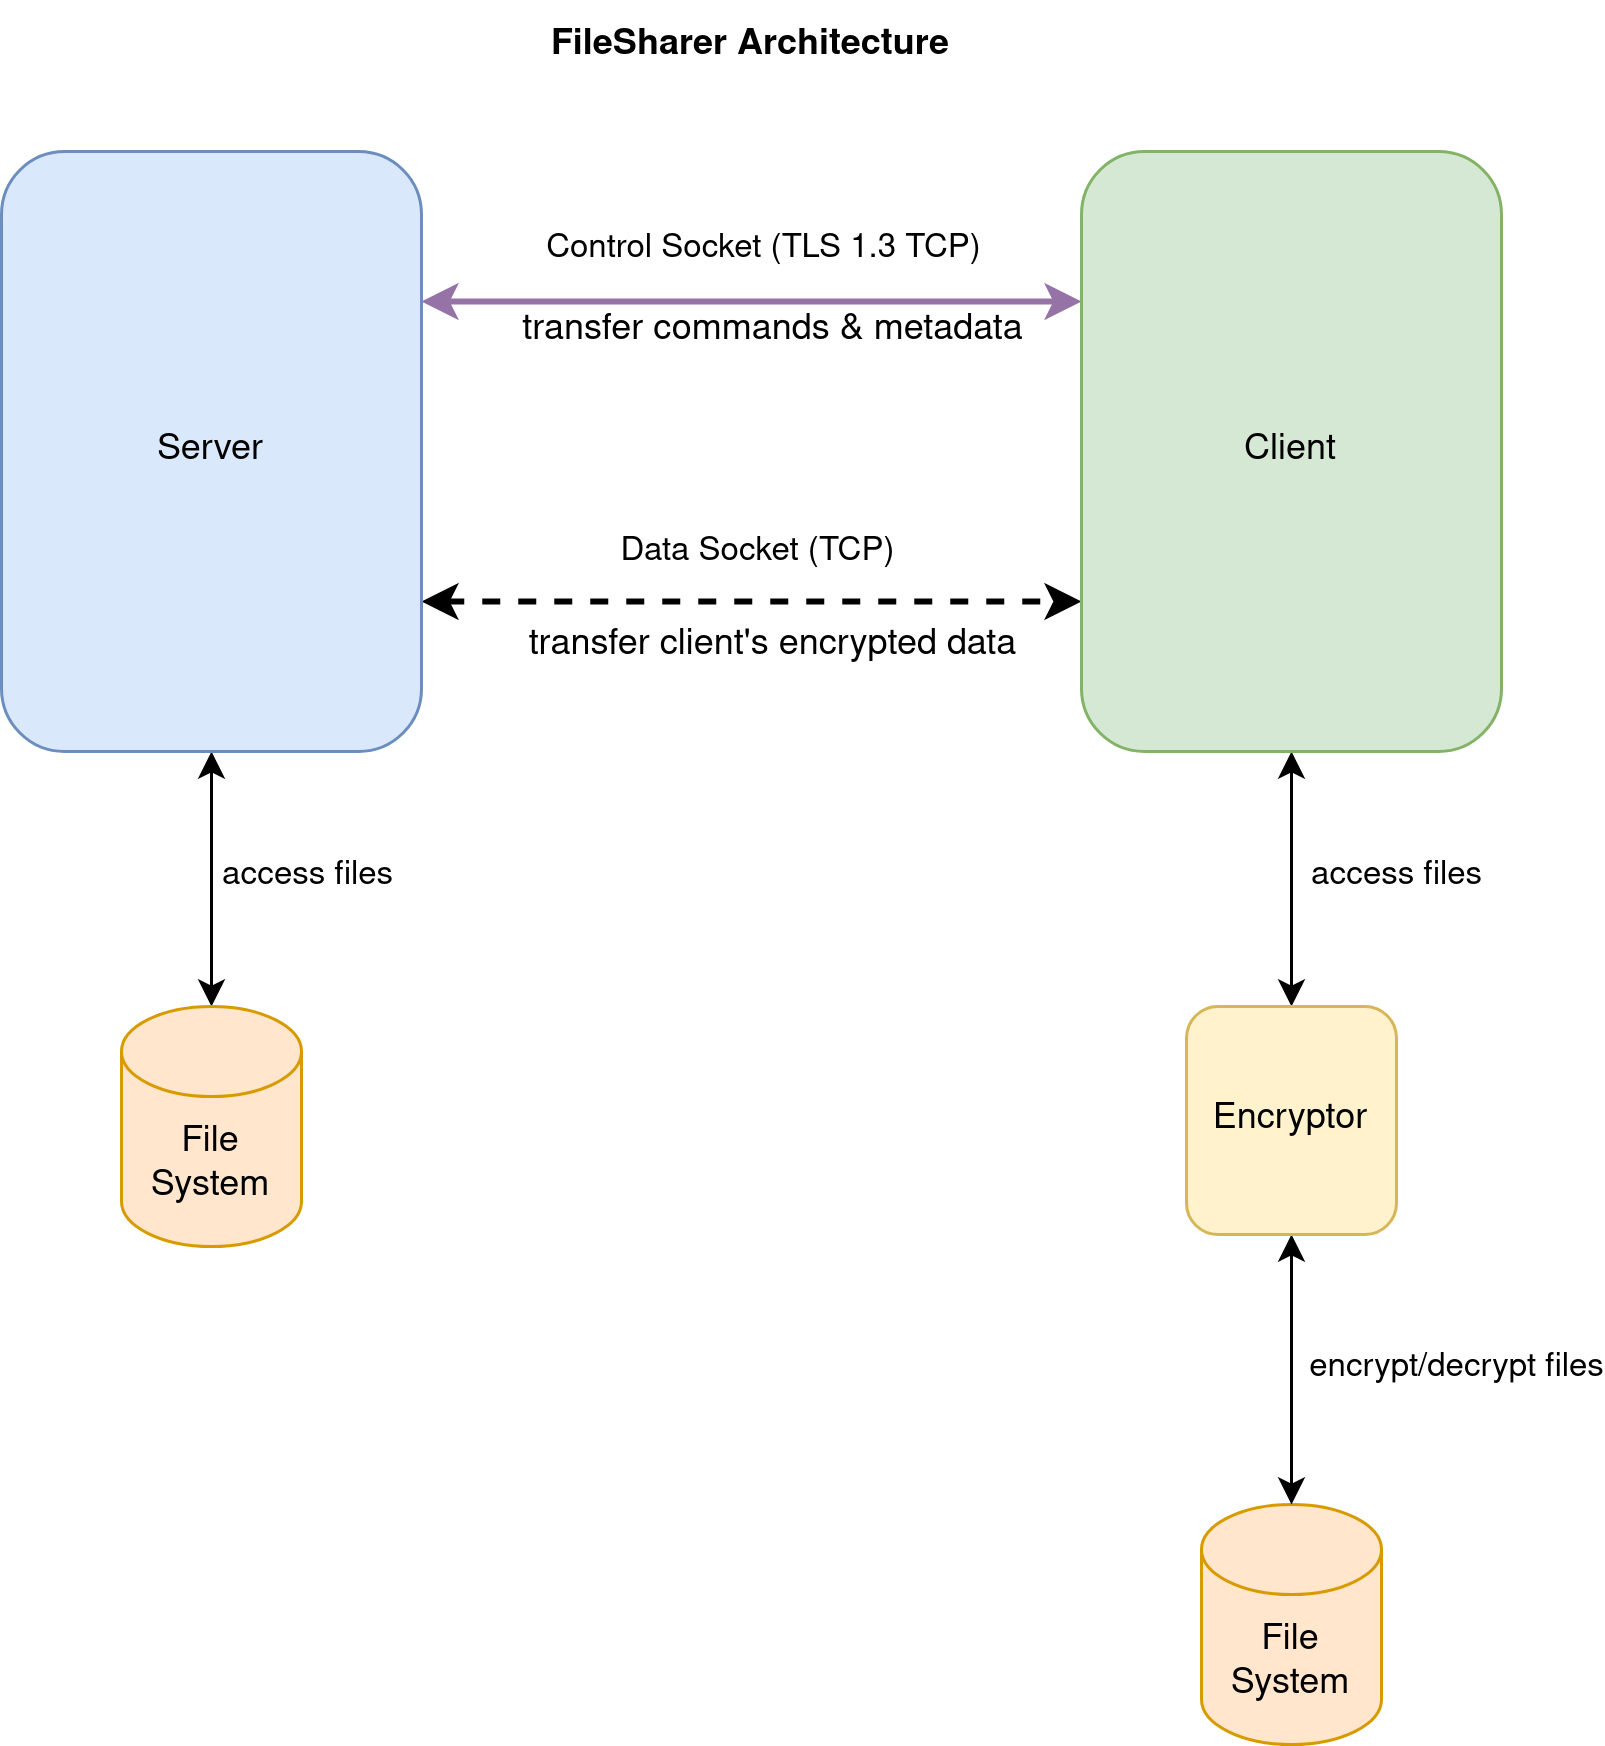
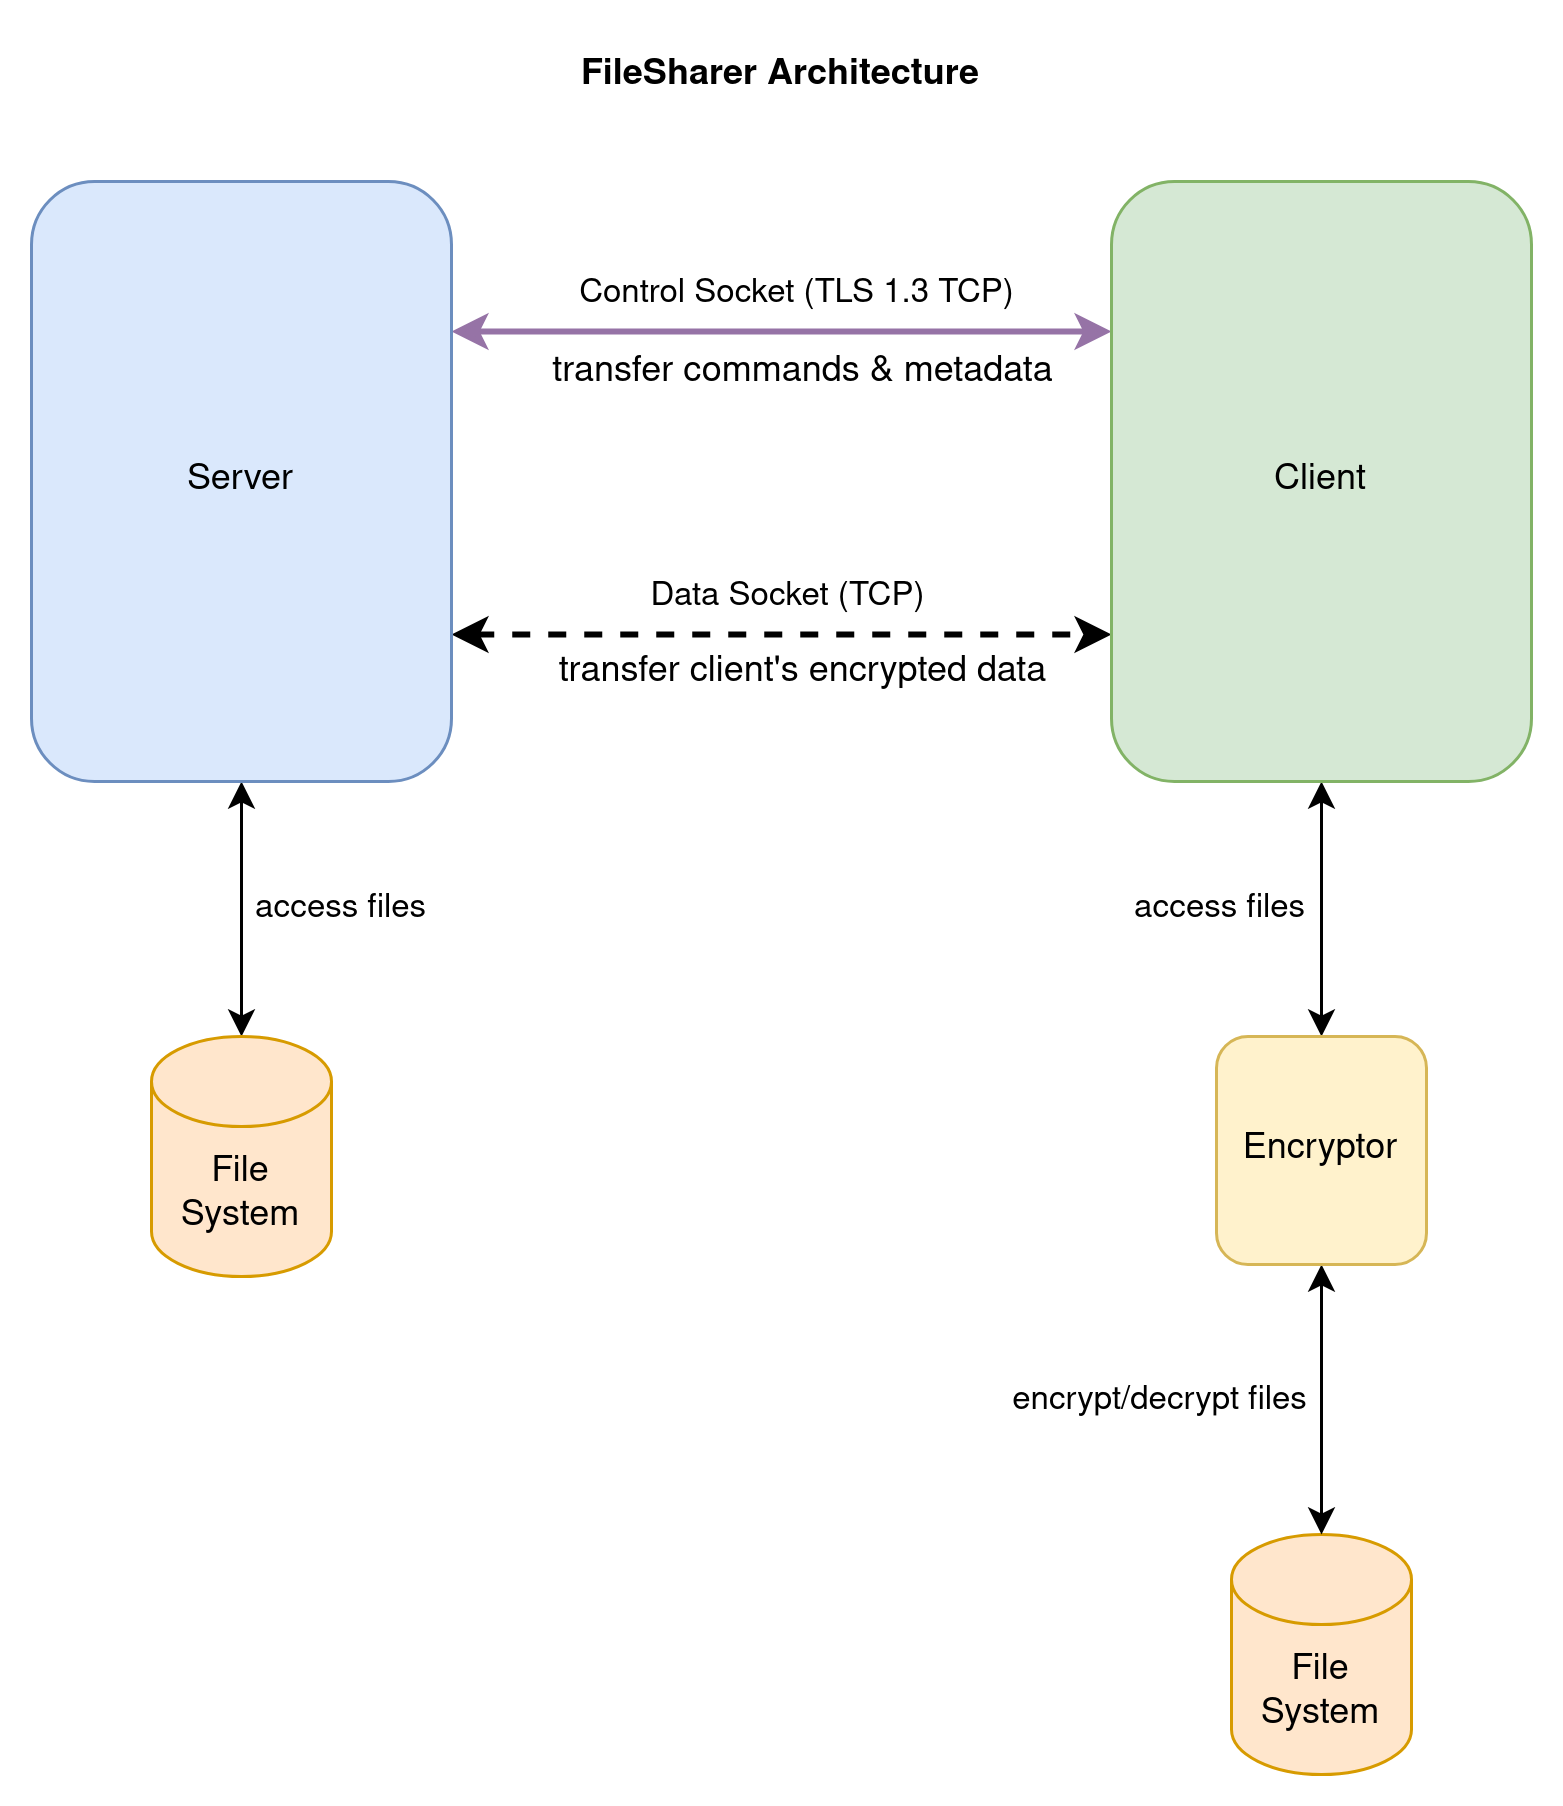
update diagram wording and arrangement

diff --git a/README.md b/README.md
@@ -6,7 +6,7 @@ An application with a command line interface that enables clients to locally enc
 
 # Command Line Instructions
 
-A `.jar` is included in this repository, so all that is needed to use the app is `scala`, although `sbt` can be used to build it if desired. 
+A `.jar` is included in this repository, so all that is needed to use the app is `scala`, although `sbt` can be used to build it if desired.
 
 Assumptions: you have cloned the repository and you are in the top-level `filesharer` directory.
 
@@ -27,9 +27,9 @@ This should produce an output similar to:
 
     Server running with control port 9999, data port 9998
     Server storing files at server/storage, and keystore at server/config/keystore
-    
+
 Enter `CTRL+C` to stop the server.
-    
+
 ### Using the client
 
 The client accepts four commands: `send`, `list`, `request`, and `delete`. They all require the server to be running and are described below:
@@ -39,9 +39,9 @@ The client accepts four commands: `send`, `list`, `request`, and `delete`. They 
 The syntax for sending files is: `scala filesharer.jar client send <file name>*`. For example:
 
     scala filesharer.jar client send client/storage/original/test.txt client/storage/original/test.png
-    
+
 With the the configuration in [working-directory/server/config/config](working-directory/server/config/config), the encrypted version of these files will end up in [working-directory/server/storage](working-directory/server/storage).
-    
+
 #### list
 
 To list files stored on the server:
@@ -55,7 +55,7 @@ Assuming the previous command sent test.txt and test.png, the output should be:
 
     Client requesting list of saved files.
 
-    File Name | Size (bytes)       
+    File Name | Size (bytes)
     -------------------------------
     test.png  | 277792
     test.txt  | 48
@@ -78,16 +78,16 @@ The syntax for deleting files on the server side is: `scala filesharer.jar clien
 
 ## Generating a new key for the client (optional)
 
-The working-directory already contains an AES-128 key at [working-directory/client/config/key](working-directory/client/config/key). However, if desired, a new one may be created. 
+The working-directory already contains an AES-128 key at [working-directory/client/config/key](working-directory/client/config/key). However, if desired, a new one may be created.
 
-First, delete or rename the old key: 
+First, delete or rename the old key:
 
     mv client/config/key client/config/oldkey
 
 Then create a new one with:
 
     scala filesharer.jar keygenerator
-    
+
 # Additional Details
 
 The application was developed and tested on Ubuntu 20.04 with JDK 11.0.014 and Scala 3.1.1. It does not depend on any external libraries.
@@ -105,7 +105,7 @@ This repository also includes some bash scripts that may be useful for evaluatio
 3. [main/working-directory/bad-test.sh](main/working-directory/bad-test.sh) - runs some tests of the app in atypical/incorrect workflows.
 4. [working-directory/clean.sh](working-directory/clean.sh) - removes server files, client's decrypted files, and server logs produced by the above tests.
 
-# Design Overview 
+# Design Overview
 
 The image below shows the architecture of the application. It consists of a client and server that exchange commands and metadata over a control socket and encrypted files over a data socket. Both the client and server store and retrieve data from their file systems. The client uses AES-128 in CBC mode with a locally stored key to encrypt and decrypt its files as well as a SHA-256 hash to verify correct data transmission and integrity. The application also includes a key manager which allows users to generate and store a key.
 
@@ -116,11 +116,11 @@ The image below shows the architecture of the application. It consists of a clie
 
 The image below shows a high level overview of the application-level protocol. Each operation begins with a TLS 1.3 handshake over the control socket. Once a client has authenticated the server, it sends encrypted commands and metadata over the control socket and locally-encrypted files over the data socket.
 
-![High Level Protocol Overview](documentation/img/protocol-high-level.png)
+![High Level Protocol Overview](documentation/img/high-level-protocol.png)
 
 The image below shows the protocol in more detail, for the send command. Over the control socket, the client notifies the server it has data to send and it tells it the name of the file it is sending. Then, it connects the data socket, sends the file over it, and closes that socket. To ensure that the server has received all data and to ensure that it has not been tampered with by a man in the middle, the server sends a hash of the encrypted file over the control socket. The client then checks that this hash matches what it sent and notifices the user of the result before disconnecting.
 
-![Client-Server Interaction for Sending a File](documentation/img/send.png)
+![Client-Server Interaction for Sending a File](documentation/img/send-protocol.png)
 
 # Design Choices
 
